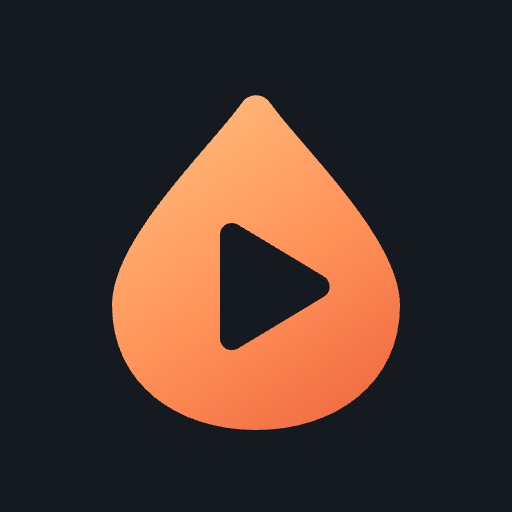
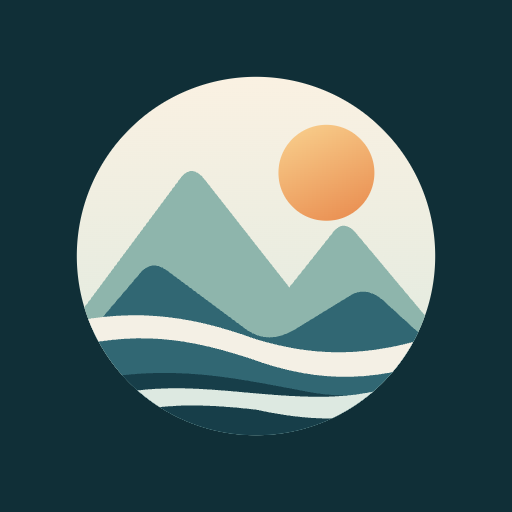
style: 重绘烟雨山水光影品牌标识

diff --git a/index.html b/index.html
@@ -3,9 +3,9 @@
   <head>
     <meta charset="UTF-8" />
     <meta name="referrer" content="no-referrer" />
-    <link rel="icon" type="image/png" sizes="32x32" href="%BASE_URL%favicon-32.png?v=20261102" />
-    <link rel="icon" type="image/svg+xml" href="%BASE_URL%brand-mark.svg" />
-    <link rel="apple-touch-icon" sizes="180x180" href="%BASE_URL%apple-touch-icon.png?v=20261102" />
+    <link rel="icon" type="image/png" sizes="32x32" href="%BASE_URL%favicon-32.png?v=20261102-landscape" />
+    <link rel="icon" type="image/svg+xml" href="%BASE_URL%brand-mark.svg?v=20261102-landscape" />
+    <link rel="apple-touch-icon" sizes="180x180" href="%BASE_URL%apple-touch-icon.png?v=20261102-landscape" />
     <link rel="manifest" href="%BASE_URL%manifest.webmanifest" />
     <meta name="viewport" content="width=device-width, initial-scale=1.0, viewport-fit=cover" />
     <meta name="theme-color" content="#0b0b0d" />
@@ -34,7 +34,7 @@
     <div id="app">
       <div class="app-boot" id="app-boot" role="status">
         <div class="app-boot__content">
-          <img class="app-boot__mark" src="%BASE_URL%brand-mark.svg" alt="" aria-hidden="true" />
+          <img class="app-boot__mark" src="%BASE_URL%brand-mark.svg?v=20261102-landscape" alt="" aria-hidden="true" />
           <p class="app-boot__title">烟雨影视</p>
           <p class="app-boot__hint">正在启动…</p>
           <a class="app-boot__retry" href="%BASE_URL%?webclip=1&retry=1">重新加载</a>

diff --git a/src/components/common/BrandMark.vue b/src/components/common/BrandMark.vue
@@ -1,7 +1,7 @@
 <script setup lang="ts">
 import { withAppBase } from '../../services/appUrl';
 
-const brandMarkUrl = withAppBase('brand-mark.svg');
+const brandMarkUrl = withAppBase('brand-mark.svg?v=20261102-landscape');
 </script>
 
 <template>

diff --git a/docs/brand.md b/docs/brand.md
@@ -1,13 +1,13 @@
 # 烟雨影视标识
 
-标识以雨滴轮廓呼应“烟雨”，中央的留白播放键表达影视。暖橙渐变沿用应用的主操作色，小尺寸使用简洁轮廓，不叠加细线或文字。
+标识采用“山间微光”：圆窗呼应镜头取景，青黛层峦与两道留白流雾表达烟雨山水，一轮暖金微光呼应影视光影和页面的橙色主操作。保留简洁的大色块，保证导航栏小尺寸下仍可辨认。
 
 - 页面标识源文件：public/brand-mark.svg，透明背景，64 × 64 画板。
-- 应用图标源文件：public/app-icon.svg，深色完整背景，512 × 512 画板。
+- 应用图标源文件：public/app-icon.svg，深青色（#102F37）完整背景，512 × 512 画板。
 - 导出图标：favicon 32px、Apple Touch 180px、PWA 192px / 512px；保留旧 PNG 文件路径作为兼容资产。
-- 512px 应用图标的图形半径约 175px，位于 maskable 的 204.8px 安全圆内；圆形或圆角裁切不会切到标识。
-- 页面导航与启动页使用 SVG，避免小尺寸模糊。图标链接使用 v=20261102 更新浏览器缓存。
+- 512px 应用图标的图形半径约 180px，位于 maskable 的 204.8px 安全圆内；圆形或圆角裁切不会切到标识。
+- 页面导航与启动页使用 SVG，避免小尺寸模糊。图标链接使用 v=20261102-landscape 更新浏览器缓存。
 - 已安装的 iPhone Web Clip 图标存储于描述文件中，需要重新安装桌面入口才能更新图标；网页内标识随应用版本更新。
 - 手机顶部基础留白通过 --mobile-header-top-space 控制，当前为 18px，并额外叠加系统安全区。桌面导航保持原有留白。
 
-2026-11-02 验证：浏览器检查 320px / 390px 宽度、浅色/暗色以及 47px 模拟顶部安全区，没有横向溢出；应用图标尺寸、完整不透明背景和遮罩安全范围已核对。本次仅为样式与图标调整，未重复执行整站构建。
+2026-11-02 验证：浏览器检查 320px / 390px 宽度与浅色/暗色，30px 导航标识正常显示，没有横向溢出；应用图标尺寸、完整不透明背景和遮罩安全范围已核对。沿用此前已验证的顶部安全区留白。本次只替换品牌资产及缓存版本，未重复执行整站构建。
